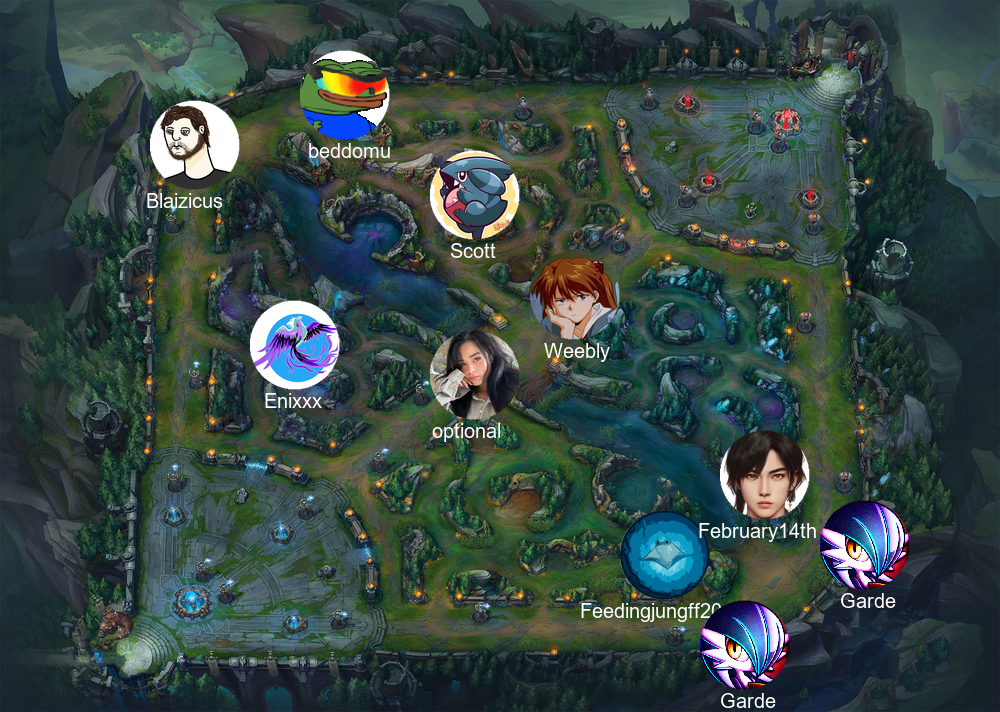
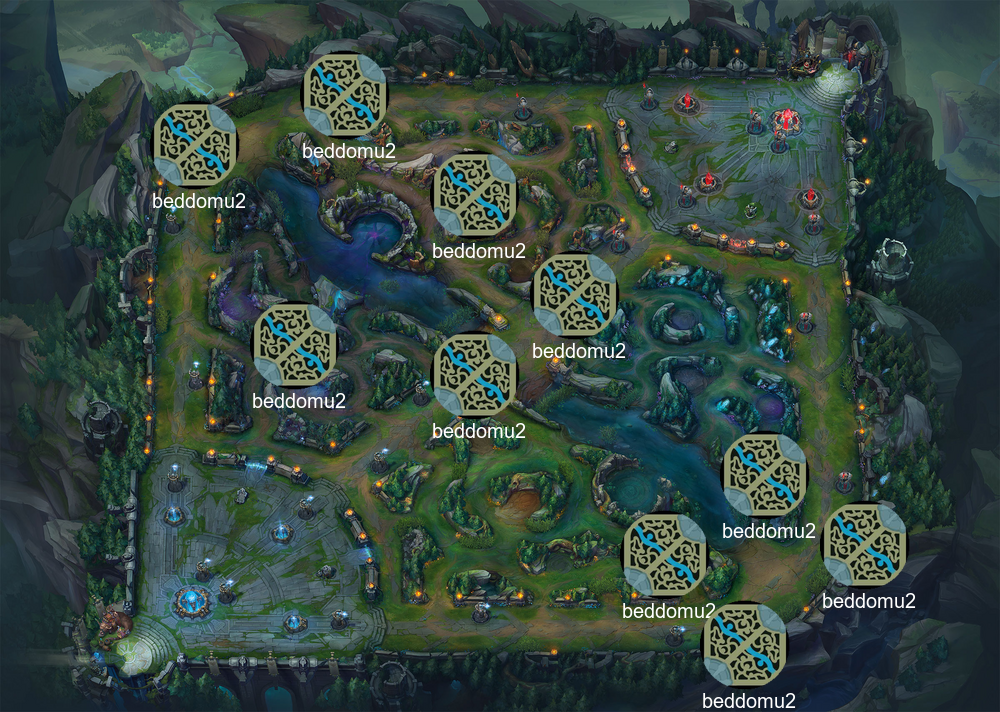
Rebuilding

diff --git a/classes/queue.py b/classes/queue.py
@@ -1,10 +1,20 @@
 from collections import Counter
+#import json
 import os
 from pprint import pp
+import random
+from time import sleep
 import discord
 from discord.ext import commands
+from classes.game import Game
+from classes.image.image import make_image
 from classes.role import Role, top, jungle, middle, bottom, support, fill
+from classes.team import Team
 from classes.views.match_found import MatchFoundView
+#from lcu.create_lobby import Lobby
+#from lcu.invite_player import invite_player
+#from lcu.leave_lobby import leave_lobby
+from utils.tinyurl import shorten_url
 
 
 class Queue:
@@ -38,7 +48,7 @@ class Queue:
         for player in self.players:
             if player.id == id:
                 self.players.remove(player)
-                await self.update_lobby()
+        await self.update_lobby()
 
     def list_players(self):
         for player in self.players:
@@ -93,15 +103,96 @@ class Queue:
             self.full = True
 
     async def pop(self, queue):
-        self.locked = True
-        '''        
+        self.locked = True      
         game = self.make_teams()
         self.game = game
-        player_mentions = game.get_player_mentions()'''
+        #player_mentions = game.get_player_mentions()
         view = MatchFoundView(queue)
         #" ".join(player_mentions) + 
         channel = await self.message.guild.fetch_channel(os.getenv("QUEUE"))
         self.pop_message = await channel.send("\n**MATCH FOUND**\n*You have 60 seconds to accept.*", view=view)
+
+    def make_teams(self):
+        #with open('C:\\DATA\\unlq.json', 'r') as file:
+        #    unlq = json.load(file)
+        team_blue = Team(5, "Blue")
+        team_red = Team(5, "Red")
+        game = Game(team_blue, team_red, None)
+
+        role_list = []
+        fill_list = []
+        for player in self.players:
+            if player.role != fill:
+                role_list.append(player.role.name)
+                roles_in_queue = Counter(role_list)
+            else:
+                fill_list.append(player)
+
+        for role in roles_in_queue.values():
+            while role < 2 and len(fill_list) >= 0:
+                role_list.players.append(fill_list.pop(
+                    random.randint(0, (len(fill_list)-1))))
+                
+        print("balancing teams")
+                
+        topq = []
+        for p in self.players:
+            if p.role.name == "Top":
+                topq.append(p)
+        team_blue.add_player(topq.pop(random.randint(0, 1)))
+        team_red.add_player(topq[0])
+        
+        jgq = []
+        for p in self.players:
+            if p.role.name == "Jungle":
+                jgq.append(p)
+        if game.blue_team > game.red_team:
+            game.red_team.add_player(max(jgq))
+            game.blue_team.add_player(min(jgq))
+        else:
+            game.red_team.add_player(min(jgq))
+            game.blue_team.add_player(max(jgq))
+            
+        midq = []
+        for p in self.players:
+            if p.role.name == "Middle":
+                midq.append(p)
+        if game.blue_team > game.red_team:
+            game.red_team.add_player(max(midq))
+            game.blue_team.add_player(min(midq))
+        else:
+            game.red_team.add_player(min(midq))
+            game.blue_team.add_player(max(midq))
+        
+        adcq = []
+        for p in self.players:
+            if p.role.name == "Bottom":
+                adcq.append(p)
+        if game.blue_team > game.red_team:
+            game.red_team.add_player(max(adcq))
+            game.blue_team.add_player(min(adcq))
+        else:
+            game.red_team.add_player(min(adcq))
+            game.blue_team.add_player(max(adcq))
+
+        suppq = []
+        for p in self.players:
+            if p.role.name == "Support":
+                suppq.append(p)
+        if game.blue_team > game.red_team:
+            game.red_team.add_player(max(suppq))
+            game.blue_team.add_player(min(suppq))
+        else:
+            game.red_team.add_player(min(suppq))
+            game.blue_team.add_player(max(suppq))
+        
+        print(f"Final Team blue rating: {team_blue.rating}")
+        print(f"Final Team red rating: {team_red.rating}")
+        
+        self.game = game
+        make_image(game)
+        return game
+
 
     async def on_queue_timeout(self):
         self.locked = False
@@ -148,3 +239,49 @@ class Queue:
             if player.ready != True:
                 return False
         return True
+
+    async def initiate_game(self):
+        #lobby = Lobby(name=int(str(self.message.id)[:-8]), team_size=5)
+        #lobby.create()
+        sleep(1)
+        embed = discord.Embed(color=discord.colour.Colour.brand_red())
+        user = await self.message.guild.fetch_member(948863727032217641)
+        embed.set_author(name="UNL Queue", icon_url=user.avatar.url)
+        embed.set_footer(text=f'Lobby id: {int(str(self.message.id)[:-8])}')
+        file = discord.File('classes\\image\\res.png', filename='res.png')
+        embed.set_image(url=('attachment://res.png'))
+        #embed.set_image(url="https://static.wikia.nocookie.net/leagueoflegends/images/5/53/Summoner%27s_Rift_Update_Map.png/revision/latest/scale-to-width-down/1000?cb=20170223053555.png")
+
+        players = []
+        for team in self.game.teams:
+            team_players_list = []
+            ign_list = []
+            for player in team.players:
+                if player.ign:
+                    #invite_player(player.ign)
+                    ign_list.append(player.ign.replace(" ", ""))
+                players.append(player)
+                team_players_list.append(
+                    player.role.emoji + player.user.mention)
+            multiopgg = "https://www.op.gg/multisearch/euw?summoners={}".format(
+                ",".join(ign_list))
+            short_multiopgg = "\nMulti opgg: {}".format(shorten_url(multiopgg))
+            team_players_string = "\n".join(
+                team_players_list) + short_multiopgg
+            embed.add_field(name=f'Team {team.side}',
+                            value=team_players_string)
+        #leave_lobby()
+        channel = await self.message.guild.fetch_channel(os.getenv("LIVE"))
+        live_game_messsage = await channel.send(embed=embed, file=file)
+        #with open('C:\\DATA\\unlq.json', 'r') as unlq_file:
+            #unlq_json =  json.load(unlq_file)
+        #unlq_json['lobbies'][int(str(self.message.id)[:-8])] = {}
+        #unlq_json['lobbies'][int(str(self.message.id)[:-8])]['game_id'] = live_game_messsage.id
+        #unlq_json['lobbies'][int(str(self.message.id)[:-8])]['blue_team'] = self.game.blue_team.rating
+        #unlq_json['lobbies'][int(str(self.message.id)[:-8])]['red_team'] = self.game.red_team.rating
+        #with open('C:\\DATA\\unlq.json', 'w') as unlq_file:
+            #json.dump(unlq_json, unlq_file)
+            #unlq_file.close()
+        #for p in players:
+            #await p.user.send(embed=embed)
+        self.locked = False

diff --git a/cogs/unlqueue.py b/cogs/unlqueue.py
@@ -8,7 +8,10 @@ from discord.ext import commands
 from discord import Interaction, app_commands
 from classes.player import Player
 from classes.queue import Queue
+from classes.views.match_found import MatchFoundView
+from classes.views.matchmaking import MatchmakingView
 from classes.views.role_select import RoleSelectView
+from classes.role import fill
 
 
 
@@ -29,30 +32,24 @@ class UNLQueue(commands.Cog):
     @app_commands.command(name="queue", description="Enter this command to view the queue options")
     @app_commands.guilds(int(os.getenv("SERVER_ID")))
     async def test(self, interaction: discord.Interaction):
-        await interaction.response.send_message(view=RoleSelectView(self.queue), ephemeral=True)
+        if interaction.user.id not in self.queue.get_all_ids():
+            await interaction.response.send_message(view=RoleSelectView(self.queue), ephemeral=True)
+        else:
+            await interaction.response.send_message(view=MatchmakingView(self.queue), ephemeral=True)
 
-    @commands.command(name="addfillrandom", aliases=["r"])
+    @commands.command(name="addfill", aliases=["f"])
     @commands.has_permissions(manage_messages=True)
-    async def add_random_fill(self, ctx: commands.context.Context, input: int):
+    async def add_fill_dummy(self, ctx: commands.context.Context, input: int):
         if len(self.queue.players) < 10:
             n = 0
             while n < input:
-                user = ctx.author
-                
-                for r in self.queue.roles:
-                    r_n = 0
-                    if r_n <= 2:
-                        player = Player(user.id, user.name, r, user, False, "beddomu", 60)
-                        await self.queue.add_player(player)
-                        await self.queue.update_lobby()
-                        n += 1
-                        r_n += 1
-                
-                
-                if self.queue.full == True and self.queue.locked != True:
-                    #view = MatchFoundView()
-                    await self.queue.pop(self.queue)
-                    break
+                player = Player(ctx.author.id, f"Target dummy {n + 1}", fill, ctx.author, False, "beddomu", 50)
+                await self.queue.add_player(player)
+                n += 1
+                await self.queue.update_lobby()
+            if self.queue.full == True and self.queue.locked != True:
+                view = MatchFoundView()
+                await self.queue.pop(ctx, view)
     
     @commands.command(name="debug", aliases=["c"])
     @commands.has_permissions(manage_messages=True)

diff --git a/classes/views/role_select.py b/classes/views/role_select.py
@@ -26,15 +26,11 @@ class RoleSelect(discord.ui.Select):
     async def callback(self, interaction: discord.Interaction):
         ign = "beddomu"
         rating = 60
-        if interaction.user.id not in self.queue.get_all_ids():
-            role = getattr(sys.modules[__name__], self.values[0].lower())
-            player = Player(interaction.user.id, interaction.user.name, role, interaction.user, False, ign, rating)
-            await self.queue.add_player(player)
-            view = MatchmakingView(self.queue)
-            await interaction.response.edit_message(view=view, content=f"*You can dismiss this window, you will be mentioned once a match has been found.\nIf you want to bring this window up again after closing it, enter the /queue command again.*\n**You are in queue...**\n**`{player.ign}`**\n**{role.name} {role.emoji}**")
-        else:
-            view = MatchmakingView(self.queue)
-            await interaction.response.send_message(view=view, ephemeral=True)
+        role = getattr(sys.modules[__name__], self.values[0].lower())
+        player = Player(interaction.user.id, interaction.user.name, role, interaction.user, False, ign, rating)
+        await self.queue.add_player(player)
+        view = MatchmakingView(self.queue)
+        await interaction.response.edit_message(view=view, content=f"*You can dismiss this window, you will be mentioned once a match has been found.\nIf you want to bring this window up again after closing it, enter the /queue command again.*\n**You are in queue...**\n**`{player.ign}`**\n**{role.name} {role.emoji}**")
 
         
 

diff --git a/classes/image/image.py b/classes/image/image.py
@@ -3,7 +3,7 @@ import requests
 from PIL import Image, ImageDraw, ImageFilter, ImageOps, ImageFont
 
 def make_image(game):
-    back = Image.open('image\\img.png')
+    back = Image.open('classes\\image\\img.png')
     coords = [
         (150, 100),
         (250, 300),
@@ -23,9 +23,9 @@ def make_image(game):
                 avatar = requests.get(player.user.avatar.url)
                 fore = Image.open(BytesIO(avatar.content))
             else:
-                fore = Image.open('image\\blank.png')
+                fore = Image.open('classes\\image\\blank.png')
             fore.thumbnail((90, 90),Image.ANTIALIAS)
-            mask = Image.open('image\\mask.png').convert('L').resize(fore.size)
+            mask = Image.open('classes\\image\\mask.png').convert('L').resize(fore.size)
             back.paste(fore, coords[index], mask=mask)
             name_tag_font = ImageFont.truetype("arial.ttf", 20)
             name_tag_text = player.name
@@ -35,4 +35,4 @@ def make_image(game):
             back_editable.text(((W-w+50),(H-h+100)), name_tag_text, font=name_tag_font)
             index += 1
             
-    back.save(fp=('image\\res.png'))
+    back.save(fp=('classes\\image\\res.png'))

diff --git a/classes/views/match_found.py b/classes/views/match_found.py
@@ -3,7 +3,7 @@ import discord
 
 class MatchFoundView(discord.ui.View):
     def __init__(self, queue, timeout = None):
-        super().__init__(timeout = 3)
+        super().__init__(timeout = 60)
         self.queue = queue
 
     @discord.ui.button(label="Accept", style=discord.ButtonStyle.green)
@@ -27,7 +27,11 @@ class MatchFoundView(discord.ui.View):
             await self.queue.pop_message.edit(view=None, content=f'{interaction.user.mention} declined the queue. The remaining players have been put back in queue', delete_after=15)
             self.queue.locked = False
             self.queue.full = False
-            self.queue.remove_player(interaction.user.id)
+            players_in_queue = self.queue.players
+            self.queue.players.clear()
+            for player in players_in_queue:
+                if player.id != interaction.id:
+                    self.queue.players.append(player)
             self.queue.unready_all_players()
             await self.queue.update_lobby()
             self.stop()

diff --git a/classes/team.py b/classes/team.py
@@ -1,0 +1,30 @@
+from pprint import pprint
+from classes.role import Role
+from classes.player import Player
+
+class Team:
+    def __init__(self, player_limit: int, side: str):
+        self.player_limit = player_limit
+        self.players = []
+        self.roles = []
+        self.side = side
+        self.rating = 0
+        
+    def __lt__(self, other):
+        return self.rating < other.rating
+                
+
+    def add_player(self, obj):
+        if isinstance(obj, Player):
+            self.players.append(obj)
+            pprint(f'{self.side}: {self.rating} + {obj.rating}')
+            self.rating += obj.rating
+            
+
+    def list_players(self):
+        for player in self.players:
+            print(player.name)
+
+    def add_role(self, role):
+        if isinstance(role, Role):
+            self.roles.append(role)

diff --git a/classes/game.py b/classes/game.py
@@ -1,0 +1,23 @@
+from pprint import pprint, pp
+from classes.team import Team
+
+class Game:
+    def __init__(self, blue_team: Team, red_team: Team, winner: Team):
+        self.id = int
+        self.teams = [blue_team, red_team]
+        self.blue_team = blue_team
+        self.red_team = red_team
+
+    def get_player_mentions(self):
+        list = []
+        for team in self.teams:
+            for player in team.players:
+                list.append(player.user.mention)
+        return list
+
+    def get_players(self):
+        list = []
+        for team in self.teams:
+            for player in team.players:
+                list.append(player)
+        return list

diff --git a/classes/player.py b/classes/player.py
@@ -12,8 +12,8 @@ class Player:
         self.ign = ign
         self.rating = rating
         
-'''    def __lt__(self, other):
+    def __lt__(self, other):
         return self.rating < other.rating
     
     def __eq__(self, other):
-        return self.rating == other.rating'''
+        return self.rating == other.rating
